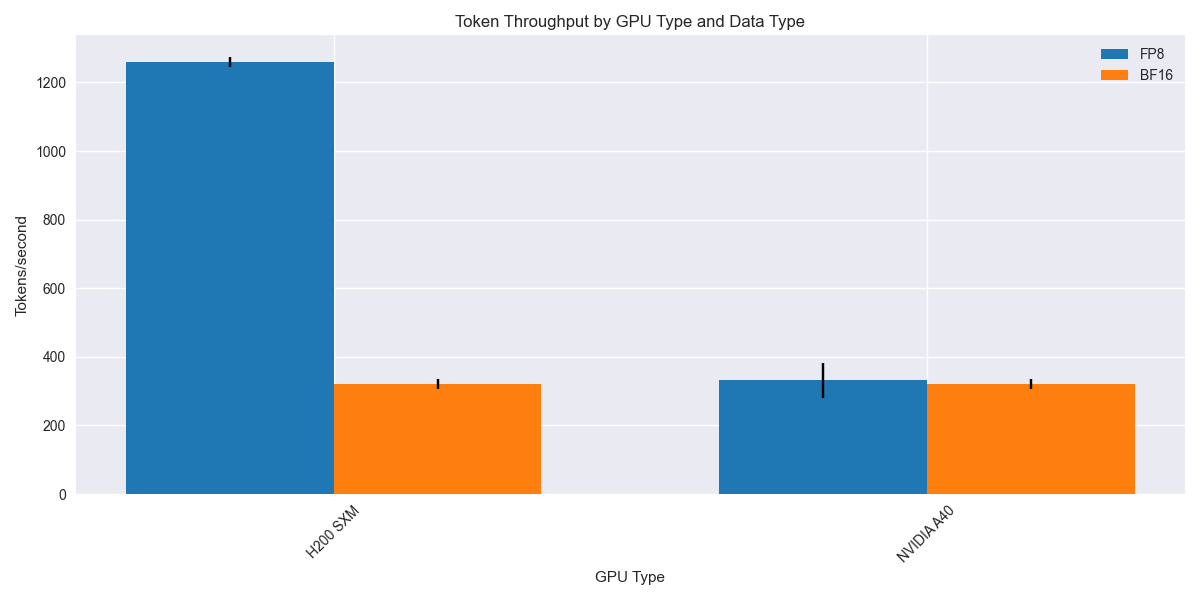
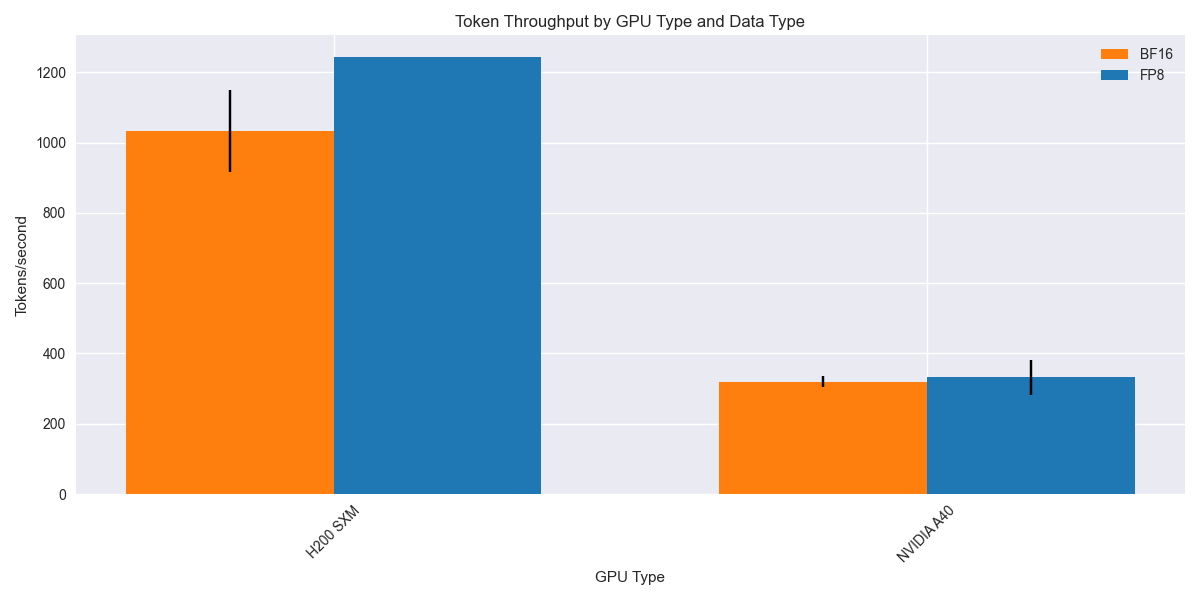
- Added performance notes to README.md regarding batch size and throughput for H200 SXM. - Updated clean_db.py to delete a specific anomalous run (H200 SXM BF16) with low throughput instead of the first two entries in the database.

diff --git a/scripts/clean_db.py b/scripts/clean_db.py
@@ -1,19 +1,16 @@
 import sqlite3
 
 def clean_database(db_path: str = "results.db"):
-    """Remove the first two runs from the database."""
+    """Remove the anomalous H200 SXM BF16 run with low throughput (around 108.51 tokens/s)."""
     conn = sqlite3.connect(db_path)
     c = conn.cursor()
     
-    # Delete the first two entries by ID
+    # Delete the specific run with low throughput on H200 SXM
     c.execute('''
         DELETE FROM benchmark_runs 
-        WHERE id IN (
-            SELECT id 
-            FROM benchmark_runs 
-            ORDER BY id ASC 
-            LIMIT 2
-        )
+        WHERE gpu_info = 'H200 SXM' 
+        AND data_type = 'BF16'
+        AND overall_throughput < 200
     ''')
     
     conn.commit()

diff --git a/README.md b/README.md
@@ -414,7 +414,14 @@ class CustomLLMClient(LLMClient):
 # Legacy Codebase
 The old LLMPerf code base can be found in the [llmperf-legacy](https://github.com/ray-project/llmval-legacy) repo.
 
+---
+
 ### OpenAI Compatible API - with Saving of Results
+Performance notes:
+- At large batch size (64), fp8 gives some speed up on H200 SXM.
+- H200 largely gives shorter time to first token.
+- SGLang is necessary to test as it probably maintains much higher throughput.
+
 First run installs:
 ```
 uv venv
